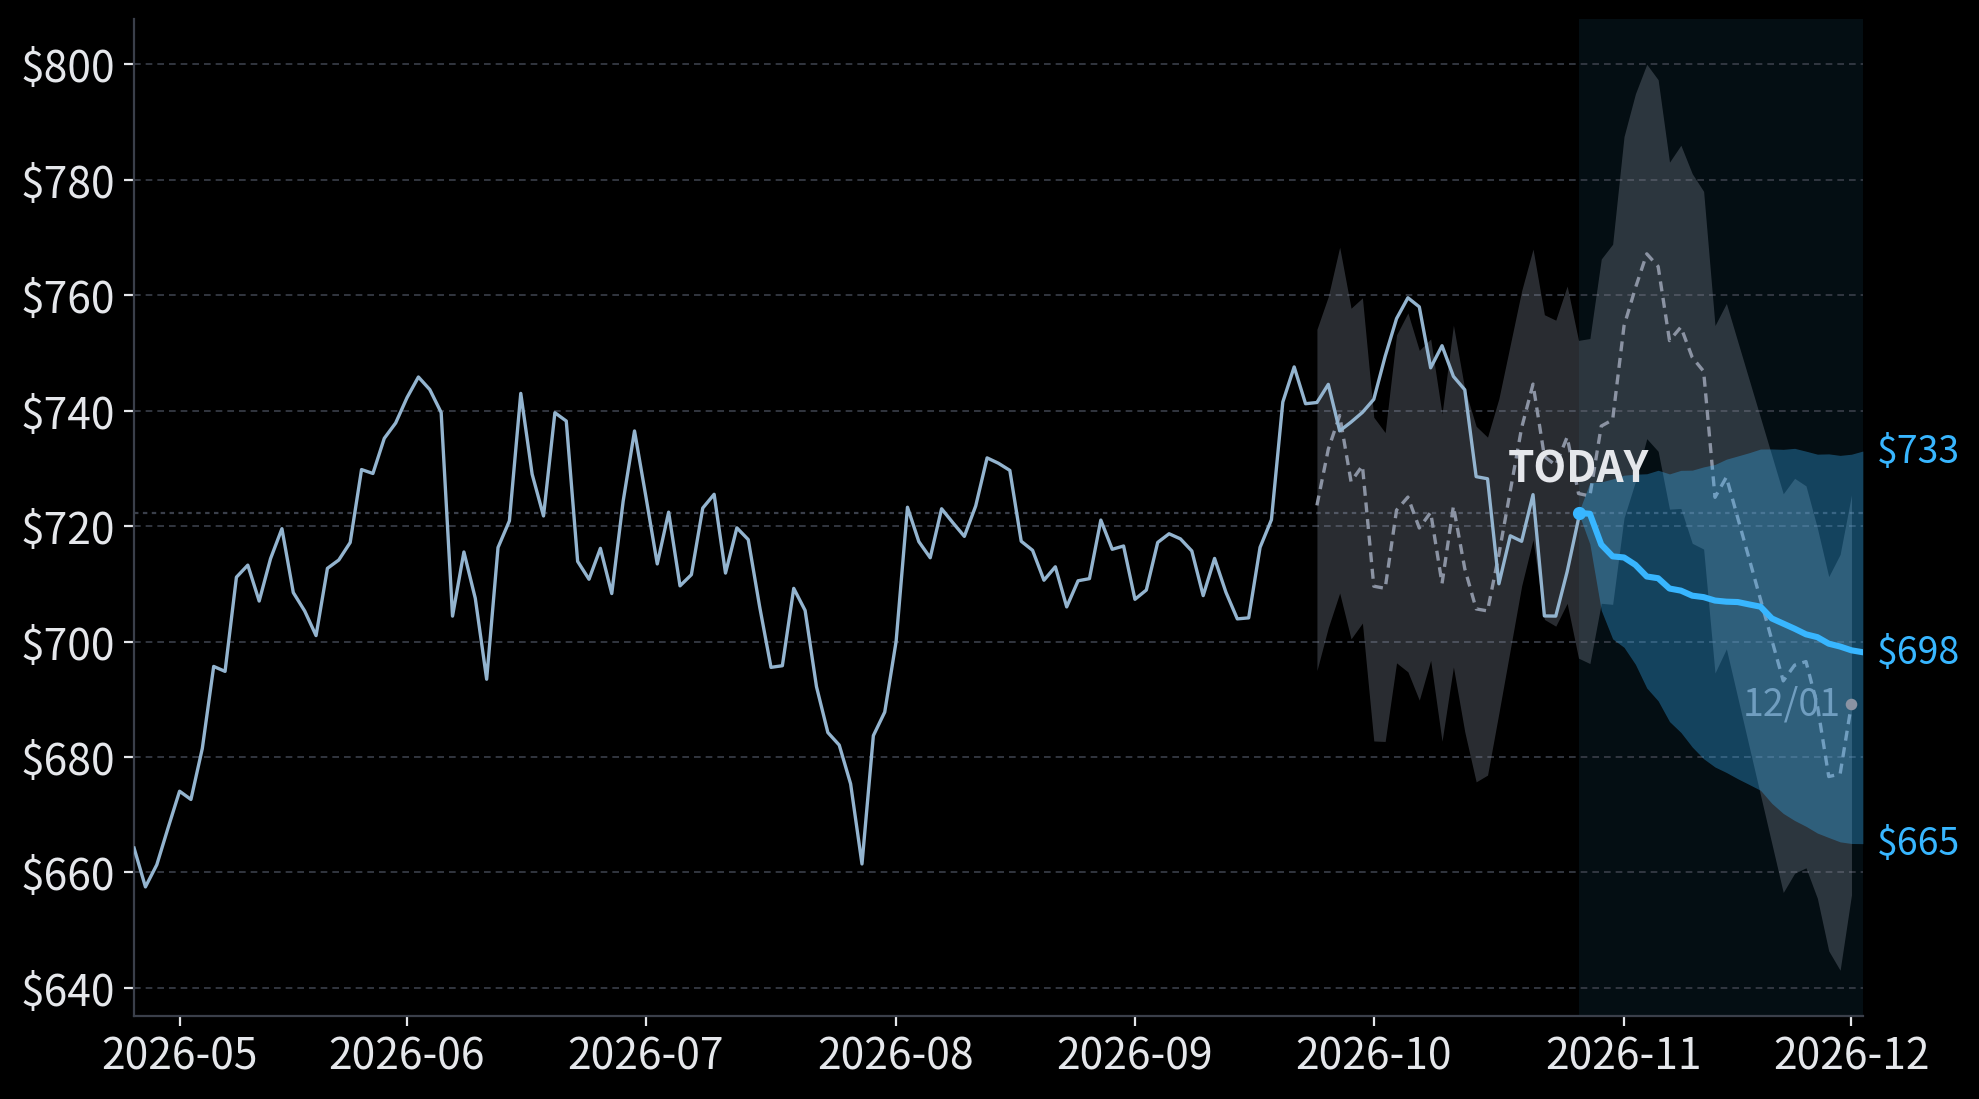
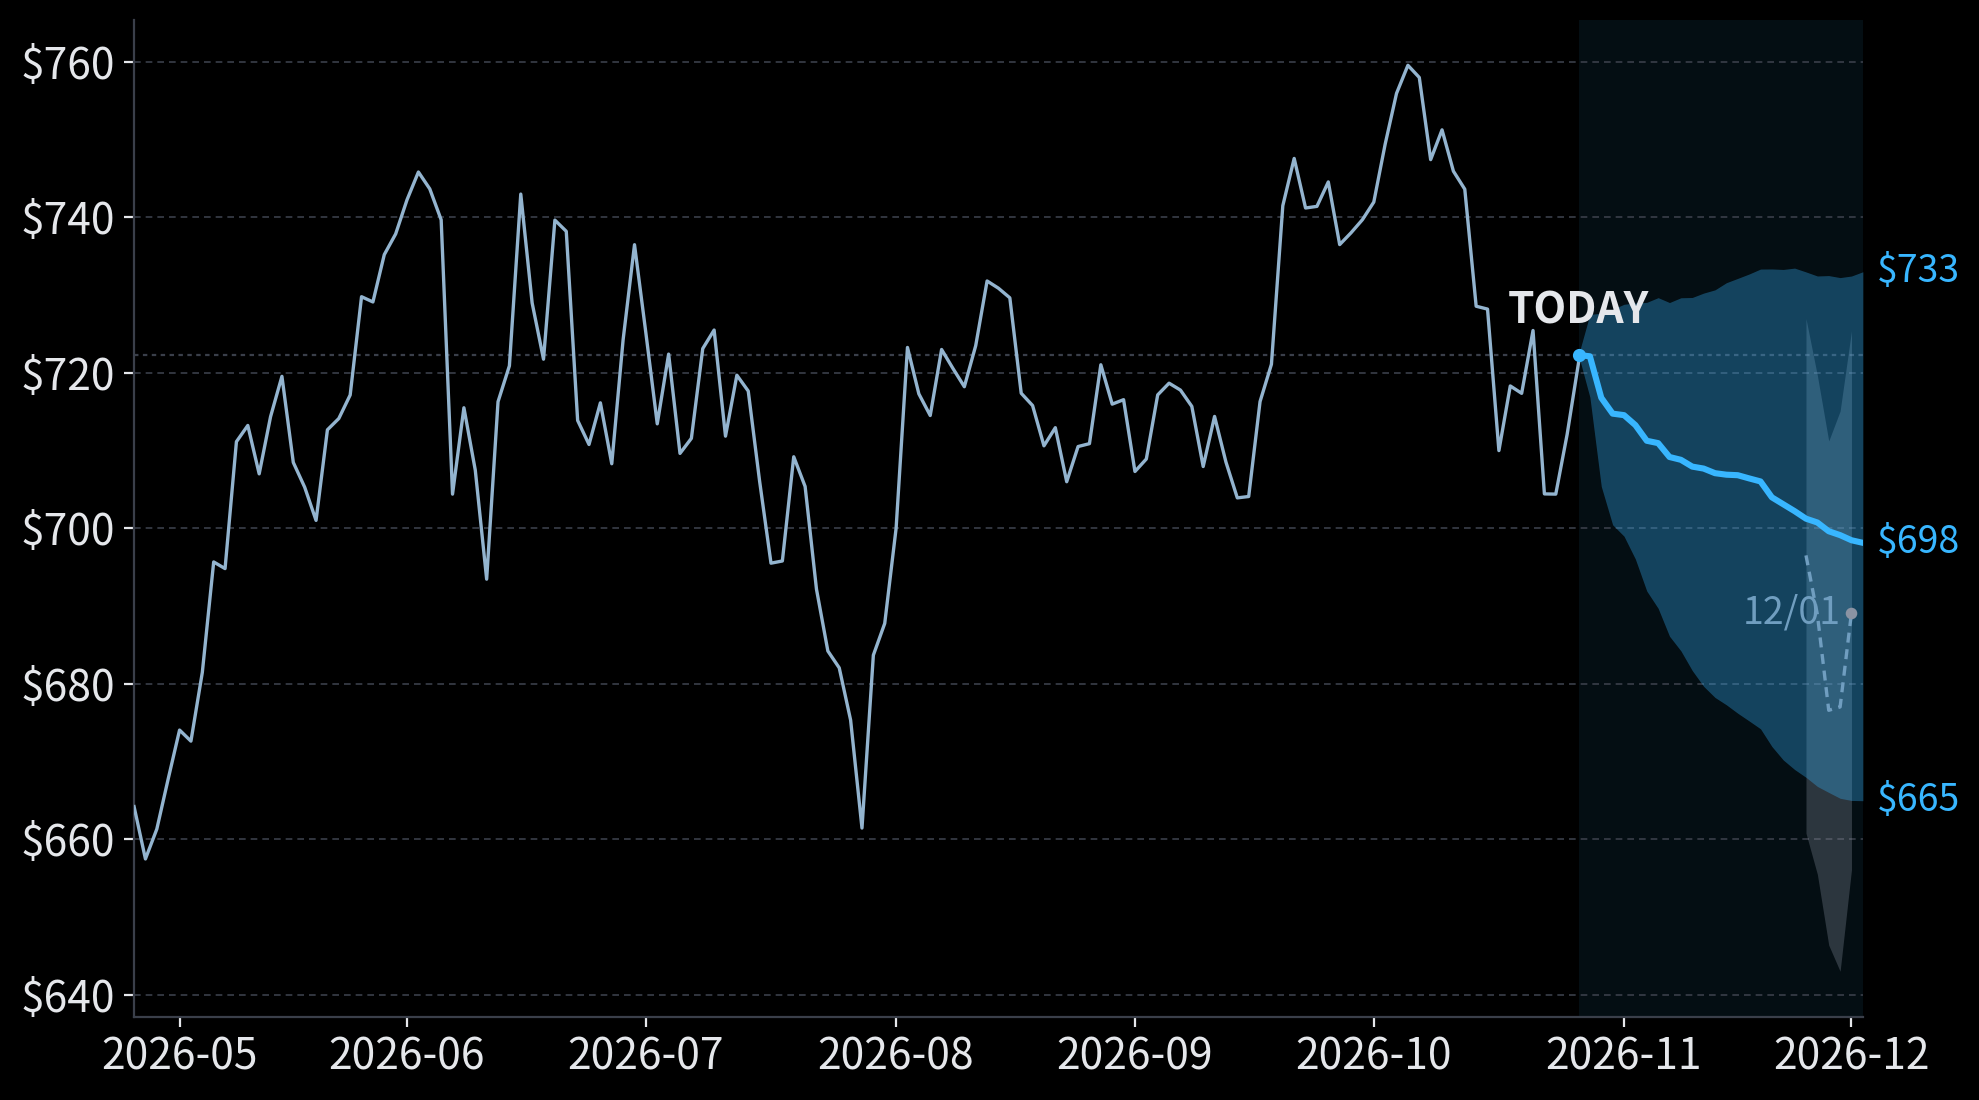
6M 그림의 지난 판단 범위를 10/21 판단부터 그린다

diff --git a/r/20261028-nasdaq/report.html b/r/20261028-nasdaq/report.html
@@ -1,6 +1,6 @@
 <h2 id="1개월-지수-방향-예측">1개월 지수 방향 예측</h2>
 <p><img src="r/20261028-nasdaq/chart-nasdaq.png?v=6dd49a2b4f" /></p>
-<p><img src="r/20261028-nasdaq/predict-nasdaq.png?v=2e429c7ee0" /></p>
+<p><img src="r/20261028-nasdaq/predict-nasdaq.png?v=157ad8cad5" /></p>
 <h3 id="현재-상태-ai-기업의-자금-조달-소식-때문에-반도체주가-오르면서-나스닥100이-지난주-낙폭을-대부분-회복했다"><mark>현재 상태</mark> AI 기업의 자금 조달 소식 때문에 반도체주가 오르면서 나스닥100이 지난주 낙폭을 대부분 회복했다</h3>
 <p>나스닥100은 10월 27일 1.29% 올랐다. 언론은 상승의 원인으로 AI 기업의 자금 조달 소식을 들었다. 브로드컴이 앤트로픽의 칩 구매를 돕는 대규모 금융 약정을 맺었고, 엔비디아와 AMD는 메타에 지분을 투자한다고 발표했다. 투자자는 이 소식을 AI 수요의 증거로 읽고 반도체주를 사들였다. 10월 22일에는 같은 AI 업종이 부채와 현금 소진에 대한 우려 때문에 크게 하락했다. 10년물 국채 수익률은 반년 가까이 주식의 기대수익보다 높다. 그래서 기업 이익이 늘어도 주가가 크게 오르기 어렵다. 다만 부채와 현금 소진에 대한 우려는 시장 전체의 신용 불안으로 커지지 않았다. 하이일드 채권 스프레드(투자자가 위험한 기업에 돈을 빌려줄 때 요구하는 신용 프리미엄)는 지난주 고점에서 내려왔고 위기 수준보다 낮다.</p>
 <h3 id="주요-분기와-예측-이번-주-빅테크-실적과-ai-인프라-기업의-신용에-따라-한-달-주가가-달라진다"><mark>주요 분기와 예측</mark> 이번 주 빅테크 실적과 AI 인프라 기업의 신용에 따라 한 달 주가가 달라진다</h3>

diff --git a/r/20261028-biotech/report.html b/r/20261028-biotech/report.html
@@ -1,6 +1,6 @@
 <h2 id="1개월-지수-방향-예측">1개월 지수 방향 예측</h2>
 <p><img src="r/20261028-biotech/chart-biotech.png?v=43c8962945" /></p>
-<p><img src="r/20261028-biotech/predict-biotech.png?v=aba143dcee" /></p>
+<p><img src="r/20261028-biotech/predict-biotech.png?v=77cd1ec259" /></p>
 <h3 id="현재-상태-바이오-주가는-기술주보다-덜-하락했고-중소형주가-크게-올랐다"><mark>현재 상태</mark> 바이오 주가는 기술주보다 덜 하락했고 중소형주가 크게 올랐다</h3>
 <p>나스닥 바이오테크놀로지 지수는 미국에 상장한 바이오 기업의 주가를 시가총액으로 묶은 지수다. 지난주 메타는 상장 뒤 처음으로 마이너스 잉여현금흐름(영업으로 번 현금에서 설비투자를 뺀 돈)을 발표했다. 다음 날 기술주가 크게 하락했다. 같은 날 바이오 주가는 기술주보다 덜 하락했다. 10월 27일에는 바이오 주가가 나스닥100보다 더 크게 올랐다. 중소형 바이오 기업을 같은 비중으로 담은 ETF(XBI)가 대형주 중심 ETF(IBB)보다 더 올랐다. 같은 날 헬스케어 업종 전체는 거의 움직이지 않았으므로 투자자는 방어 업종을 산 것이 아니라 바이오 중소형주를 사들였다. 다만 금리가 높아 바이오 주가가 크게 오르기는 어렵다. 10년물 국채 수익률이 5% 안팎이고 물가를 뺀 10년물 물가연동국채 실질금리도 반년 넘게 높다.</p>
 <h3 id="주요-분기와-예측-빅테크-실적과-선거-뒤-이란-공격-ai-기업의-신용-불안이-이번-달-바이오-주가를-움직인다"><mark>주요 분기와 예측</mark> 빅테크 실적과 선거 뒤 이란 공격, AI 기업의 신용 불안이 이번 달 바이오 주가를 움직인다</h3>
